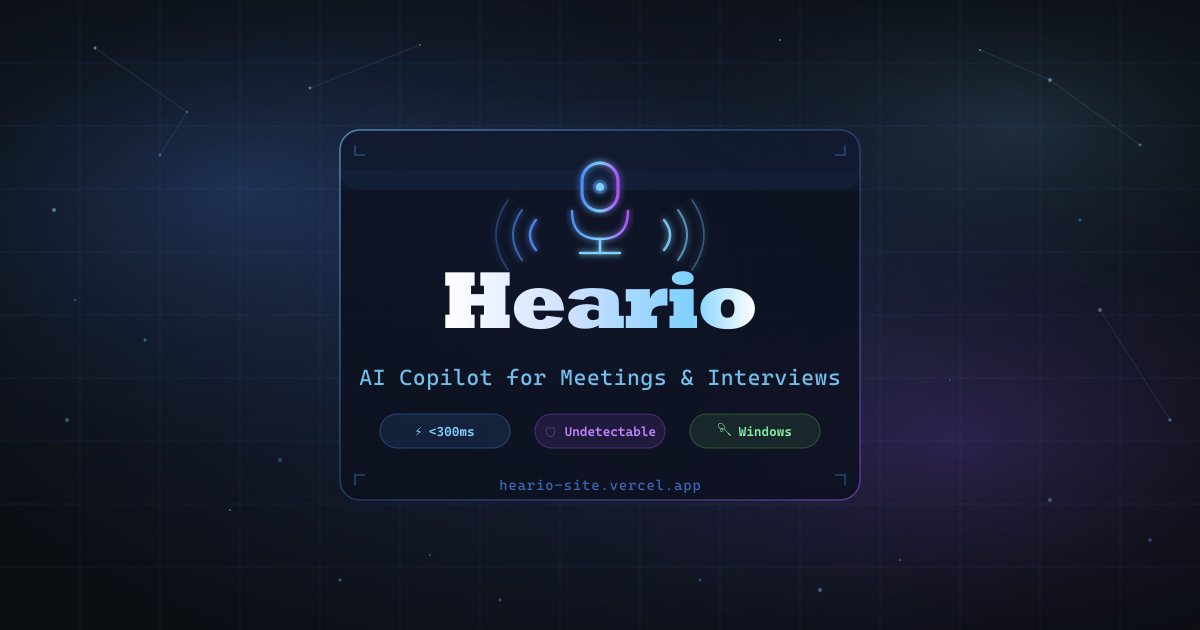
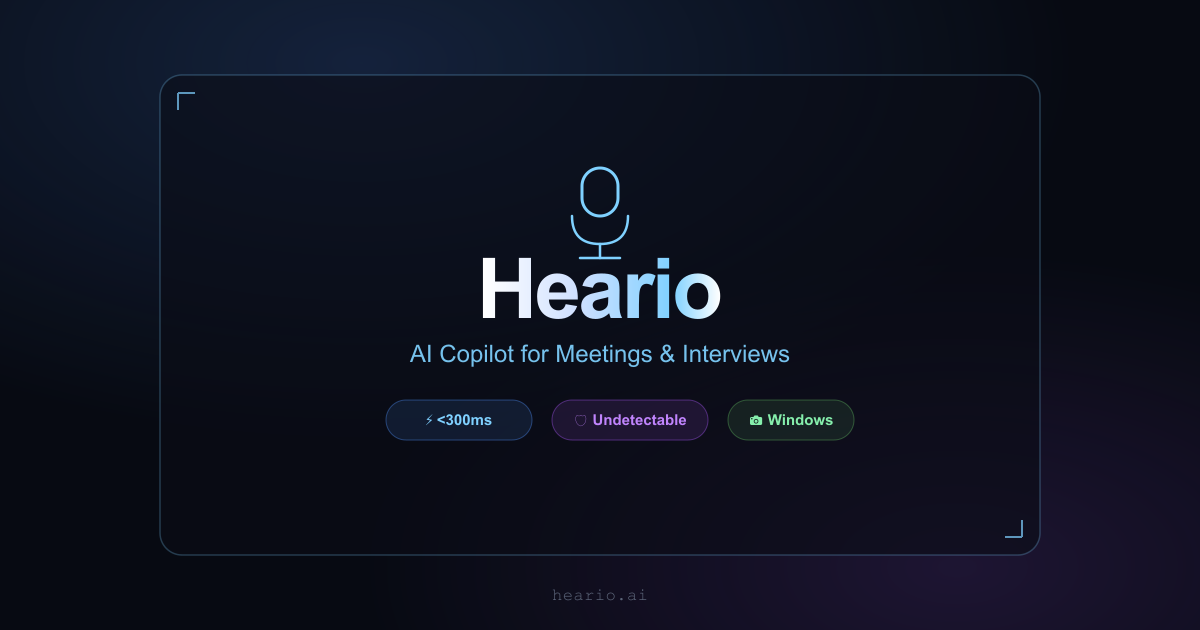
Fix social preview: wrong domain in meta tags and baked into og.png itself
canonical/og:url/og:image/twitter:image/schema.org urls all pointed at
heario-site.vercel.app instead of the real heario.ai domain. Worse, the
og.png image itself had "hearo-site.vercel.app" (misspelled too) rendered
into the graphic, which is what every shared link's social preview card
showed. Regenerated og.png from a new source SVG (og-source.svg, rasterized
via sharp) with the same visual design but the correct "heario.ai" footer.

diff --git a/blog/best-ai-tools-for-job-interviews-2026.html b/blog/best-ai-tools-for-job-interviews-2026.html
@@ -5,13 +5,13 @@
   <meta name="viewport" content="width=device-width, initial-scale=1.0" />
   <title>Best AI Tools for Job Interviews 2026 | Heario Blog</title>
   <meta name="description" content="We tested every major AI interview tool in 2026. Here's the honest breakdown — what each one does, who it's for, and which actually works in a live interview." />
-  <link rel="canonical" href="https://heario-site.vercel.app/blog/best-ai-tools-for-job-interviews-2026.html" />
+  <link rel="canonical" href="https://heario.ai/blog/best-ai-tools-for-job-interviews-2026.html" />
 
   <meta property="og:site_name" content="Heario" />
   <meta property="og:title" content="Best AI Tools for Job Interviews 2026" />
   <meta property="og:description" content="We tested every major AI interview tool in 2026. Honest breakdown — what each one does, who it's for, and which actually works live." />
-  <meta property="og:image" content="https://heario-site.vercel.app/og.png" />
-  <meta property="og:url" content="https://heario-site.vercel.app/blog/best-ai-tools-for-job-interviews-2026.html" />
+  <meta property="og:image" content="https://heario.ai/og.png" />
+  <meta property="og:url" content="https://heario.ai/blog/best-ai-tools-for-job-interviews-2026.html" />
   <meta property="og:type" content="article" />
   <meta property="article:published_time" content="2026-06-17" />
   <meta property="article:author" content="Heario" />
@@ -19,7 +19,7 @@
   <meta name="twitter:card" content="summary_large_image" />
   <meta name="twitter:title" content="Best AI Tools for Job Interviews 2026" />
   <meta name="twitter:description" content="We tested every major AI interview tool in 2026. Here's the honest breakdown." />
-  <meta name="twitter:image" content="https://heario-site.vercel.app/og.png" />
+  <meta name="twitter:image" content="https://heario.ai/og.png" />
 
   <script type="application/ld+json">
   {
@@ -29,10 +29,10 @@
     "description": "We tested every major AI interview tool in 2026. Honest breakdown of what each one does, who it's for, and which actually works in a live interview.",
     "datePublished": "2026-06-17",
     "dateModified": "2026-06-17",
-    "author": { "@type": "Organization", "name": "Heario", "url": "https://heario-site.vercel.app/" },
-    "publisher": { "@type": "Organization", "name": "Heario", "url": "https://heario-site.vercel.app/", "logo": { "@type": "ImageObject", "url": "https://heario-site.vercel.app/og.png" } },
-    "mainEntityOfPage": { "@type": "WebPage", "@id": "https://heario-site.vercel.app/blog/best-ai-tools-for-job-interviews-2026.html" },
-    "image": "https://heario-site.vercel.app/og.png"
+    "author": { "@type": "Organization", "name": "Heario", "url": "https://heario.ai/" },
+    "publisher": { "@type": "Organization", "name": "Heario", "url": "https://heario.ai/", "logo": { "@type": "ImageObject", "url": "https://heario.ai/og.png" } },
+    "mainEntityOfPage": { "@type": "WebPage", "@id": "https://heario.ai/blog/best-ai-tools-for-job-interviews-2026.html" },
+    "image": "https://heario.ai/og.png"
   }
   </script>
 
@@ -43,7 +43,7 @@
     "name": "Best AI Tools for Job Interviews 2026",
     "numberOfItems": 7,
     "itemListElement": [
-      { "@type": "ListItem", "position": 1, "name": "Heario", "url": "https://heario-site.vercel.app/" },
+      { "@type": "ListItem", "position": 1, "name": "Heario", "url": "https://heario.ai/" },
       { "@type": "ListItem", "position": 2, "name": "Interview Warmup by Google" },
       { "@type": "ListItem", "position": 3, "name": "Final Round AI" },
       { "@type": "ListItem", "position": 4, "name": "Interviewing.io" },

diff --git a/blog/how-to-use-ai-in-a-technical-interview.html b/blog/how-to-use-ai-in-a-technical-interview.html
@@ -5,13 +5,13 @@
   <meta name="viewport" content="width=device-width, initial-scale=1.0" />
   <title>How to Use AI in a Technical Interview | Heario Blog</title>
   <meta name="description" content="A practical guide to using AI tools before and during technical interviews — what works, what gets you caught, and how to use AI answers without sounding like a robot." />
-  <link rel="canonical" href="https://heario-site.vercel.app/blog/how-to-use-ai-in-a-technical-interview.html" />
+  <link rel="canonical" href="https://heario.ai/blog/how-to-use-ai-in-a-technical-interview.html" />
 
   <meta property="og:site_name" content="Heario" />
   <meta property="og:title" content="How to Use AI in a Technical Interview" />
   <meta property="og:description" content="A practical guide to using AI tools before and during technical interviews — what works, what gets you caught, and how to use AI answers without sounding like a robot." />
-  <meta property="og:image" content="https://heario-site.vercel.app/og.png" />
-  <meta property="og:url" content="https://heario-site.vercel.app/blog/how-to-use-ai-in-a-technical-interview.html" />
+  <meta property="og:image" content="https://heario.ai/og.png" />
+  <meta property="og:url" content="https://heario.ai/blog/how-to-use-ai-in-a-technical-interview.html" />
   <meta property="og:type" content="article" />
   <meta property="article:published_time" content="2026-06-17" />
   <meta property="article:author" content="Heario" />
@@ -19,7 +19,7 @@
   <meta name="twitter:card" content="summary_large_image" />
   <meta name="twitter:title" content="How to Use AI in a Technical Interview" />
   <meta name="twitter:description" content="What works, what gets you caught, and how to use AI answers without sounding like a robot." />
-  <meta name="twitter:image" content="https://heario-site.vercel.app/og.png" />
+  <meta name="twitter:image" content="https://heario.ai/og.png" />
 
   <script type="application/ld+json">
   {
@@ -29,10 +29,10 @@
     "description": "A practical guide to using AI tools before and during technical interviews — what works, what gets you caught, and how to use AI answers without sounding like a robot.",
     "datePublished": "2026-06-17",
     "dateModified": "2026-06-17",
-    "author": { "@type": "Organization", "name": "Heario", "url": "https://heario-site.vercel.app/" },
-    "publisher": { "@type": "Organization", "name": "Heario", "url": "https://heario-site.vercel.app/", "logo": { "@type": "ImageObject", "url": "https://heario-site.vercel.app/og.png" } },
-    "mainEntityOfPage": { "@type": "WebPage", "@id": "https://heario-site.vercel.app/blog/how-to-use-ai-in-a-technical-interview.html" },
-    "image": "https://heario-site.vercel.app/og.png"
+    "author": { "@type": "Organization", "name": "Heario", "url": "https://heario.ai/" },
+    "publisher": { "@type": "Organization", "name": "Heario", "url": "https://heario.ai/", "logo": { "@type": "ImageObject", "url": "https://heario.ai/og.png" } },
+    "mainEntityOfPage": { "@type": "WebPage", "@id": "https://heario.ai/blog/how-to-use-ai-in-a-technical-interview.html" },
+    "image": "https://heario.ai/og.png"
   }
   </script>
 

diff --git a/blog/is-heario-detectable-on-zoom.html b/blog/is-heario-detectable-on-zoom.html
@@ -5,13 +5,13 @@
   <meta name="viewport" content="width=device-width, initial-scale=1.0" />
   <title>Is Heario Detectable on Zoom? | Heario Blog</title>
   <meta name="description" content="The definitive technical answer: Heario uses a Windows OS-level API to hide its overlay from Zoom, Teams, and Google Meet screen capture — completely undetectable." />
-  <link rel="canonical" href="https://heario-site.vercel.app/blog/is-heario-detectable-on-zoom.html" />
+  <link rel="canonical" href="https://heario.ai/blog/is-heario-detectable-on-zoom.html" />
 
   <meta property="og:site_name" content="Heario" />
   <meta property="og:title" content="Is Heario Detectable on Zoom?" />
   <meta property="og:description" content="The definitive technical answer: Heario uses a Windows OS-level API to hide its overlay from Zoom, Teams, and Google Meet — completely undetectable." />
-  <meta property="og:image" content="https://heario-site.vercel.app/og.png" />
-  <meta property="og:url" content="https://heario-site.vercel.app/blog/is-heario-detectable-on-zoom.html" />
+  <meta property="og:image" content="https://heario.ai/og.png" />
+  <meta property="og:url" content="https://heario.ai/blog/is-heario-detectable-on-zoom.html" />
   <meta property="og:type" content="article" />
   <meta property="article:published_time" content="2026-06-17" />
   <meta property="article:author" content="Heario" />
@@ -19,7 +19,7 @@
   <meta name="twitter:card" content="summary_large_image" />
   <meta name="twitter:title" content="Is Heario Detectable on Zoom?" />
   <meta name="twitter:description" content="Heario uses a Windows OS-level API to hide from Zoom, Teams & Google Meet. Here's the technical proof." />
-  <meta name="twitter:image" content="https://heario-site.vercel.app/og.png" />
+  <meta name="twitter:image" content="https://heario.ai/og.png" />
 
   <script type="application/ld+json">
   {
@@ -29,10 +29,10 @@
     "description": "The definitive technical answer: Heario uses a Windows OS-level API to hide its overlay from Zoom, Teams, and Google Meet screen capture — completely undetectable.",
     "datePublished": "2026-06-17",
     "dateModified": "2026-06-17",
-    "author": { "@type": "Organization", "name": "Heario", "url": "https://heario-site.vercel.app/" },
-    "publisher": { "@type": "Organization", "name": "Heario", "url": "https://heario-site.vercel.app/", "logo": { "@type": "ImageObject", "url": "https://heario-site.vercel.app/og.png" } },
-    "mainEntityOfPage": { "@type": "WebPage", "@id": "https://heario-site.vercel.app/blog/is-heario-detectable-on-zoom.html" },
-    "image": "https://heario-site.vercel.app/og.png"
+    "author": { "@type": "Organization", "name": "Heario", "url": "https://heario.ai/" },
+    "publisher": { "@type": "Organization", "name": "Heario", "url": "https://heario.ai/", "logo": { "@type": "ImageObject", "url": "https://heario.ai/og.png" } },
+    "mainEntityOfPage": { "@type": "WebPage", "@id": "https://heario.ai/blog/is-heario-detectable-on-zoom.html" },
+    "image": "https://heario.ai/og.png"
   }
   </script>
 

diff --git a/index.html b/index.html
@@ -12,7 +12,7 @@
 
   <meta name="description" content="Heario is an undetectable AI copilot that gives you real-time answers during interviews and meetings — under 300ms, invisible to Zoom, Teams, and Google Meet. Free on Windows." />
 
-  <link rel="canonical" href="https://heario-site.vercel.app/" />
+  <link rel="canonical" href="https://heario.ai/" />
 
 
 
@@ -24,13 +24,13 @@
 
   <meta property="og:description" content="Real-time AI answers in your interviews and meetings. Completely undetectable by Zoom, Teams &amp; Google Meet. Under 300ms. Free on Windows." />
 
-  <meta property="og:image" content="https://heario-site.vercel.app/og.png" />
+  <meta property="og:image" content="https://heario.ai/og.png" />
 
   <meta property="og:image:width" content="1200" />
 
   <meta property="og:image:height" content="630" />
 
-  <meta property="og:url" content="https://heario-site.vercel.app/" />
+  <meta property="og:url" content="https://heario.ai/" />
 
   <meta property="og:type" content="website" />
 
@@ -44,7 +44,7 @@
 
   <meta name="twitter:description" content="Real-time AI answers in your interviews and meetings. Under 300ms. Invisible to Zoom, Teams &amp; Google Meet." />
 
-  <meta name="twitter:image" content="https://heario-site.vercel.app/og.png" />
+  <meta name="twitter:image" content="https://heario.ai/og.png" />
 
 
 
@@ -120,13 +120,13 @@
 
     },
 
-    "url": "https://heario-site.vercel.app/",
+    "url": "https://heario.ai/",
 
     "downloadUrl": "https://github.com/Jorified/heario-app/releases/download/v0.1.6/Heario_0.1.6_x64-setup.exe",
 
     "softwareVersion": "0.1.0",
 
-    "screenshot": "https://heario-site.vercel.app/og.png"
+    "screenshot": "https://heario.ai/og.png"
 
   }
 

diff --git a/blog/index.html b/blog/index.html
@@ -5,19 +5,19 @@
   <meta name="viewport" content="width=device-width, initial-scale=1.0" />
   <title>Blog | Heario</title>
   <meta name="description" content="Guides, tips, and honest takes on AI interview tools, technical interview strategy, and getting hired faster." />
-  <link rel="canonical" href="https://heario-site.vercel.app/blog/" />
+  <link rel="canonical" href="https://heario.ai/blog/" />
 
   <meta property="og:site_name" content="Heario" />
   <meta property="og:title" content="Heario Blog" />
   <meta property="og:description" content="Guides, tips, and honest takes on AI interview tools, technical interview strategy, and getting hired faster." />
-  <meta property="og:image" content="https://heario-site.vercel.app/og.png" />
-  <meta property="og:url" content="https://heario-site.vercel.app/blog/" />
+  <meta property="og:image" content="https://heario.ai/og.png" />
+  <meta property="og:url" content="https://heario.ai/blog/" />
   <meta property="og:type" content="website" />
 
   <meta name="twitter:card" content="summary_large_image" />
   <meta name="twitter:title" content="Heario Blog" />
   <meta name="twitter:description" content="Guides and tips on AI interview tools and technical interview strategy." />
-  <meta name="twitter:image" content="https://heario-site.vercel.app/og.png" />
+  <meta name="twitter:image" content="https://heario.ai/og.png" />
 
   <link rel="icon" type="image/svg+xml" href="/favicon.svg" />
   <link rel="preconnect" href="https://fonts.googleapis.com" />